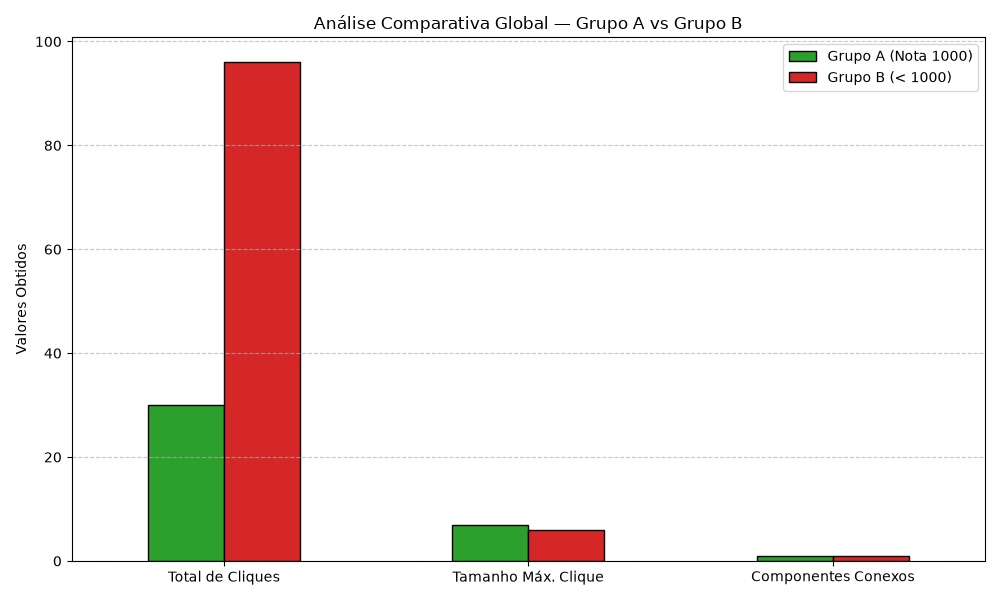
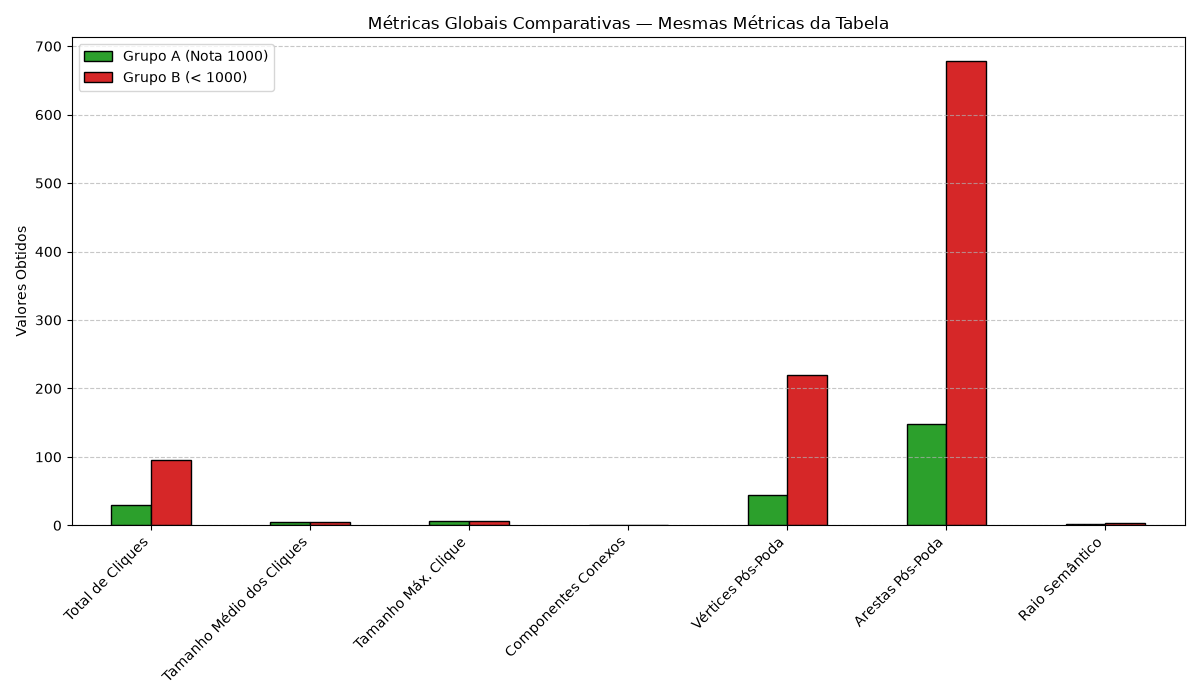
insere novos gráficos

diff --git a/cliques-enem/src/analise.py b/cliques-enem/src/analise.py
@@ -1,44 +1,88 @@
-# analise.py
+# cliques-enem/src/analise.py
+
 import os
 import matplotlib.pyplot as plt
 import pandas as pd
 
-# importo os módulos dos outros arquivos
+# importo módulos de outros arquivos
 from graph import carregar_corpus, construir_grafo_de_coocorrencia, aplicar_podas, estatisticas_grafo
 from cliques import encontrar_cliques, estatisticas_cliques
 from bfs import componentes_conexos
 
-# JSONs que foram salvos
+# JSONs oficiais q
 CORPUS_A = os.path.join("data", "processed", "corpus_nota1000.json")
 CORPUS_B = os.path.join("data", "processed", "corpus_abaixo1000.json")
 
-# pasta onde guardo os gráficos
+# pasta onde guardo os gráficos de resultados
 PASTA_FIGURAS = os.path.join("cliques-enem", "results", "figures")
 
 def gerar_graficos_comparativos_globais(stats_a, stats_b):
-    """Gera gráficos estruturais globais, sem depender de sementes."""
+    """Gera gráficos estruturais globais exigidos no escopo do R5."""
     os.makedirs(PASTA_FIGURAS, exist_ok=True)
     
-    # 1. gráfico de métricas gerais de cliques e conectividade
-    categorias = ['Total de Cliques', 'Tamanho Máx. Clique', 'Componentes Conexos']
-    valores_a = [stats_a['cliques']['total'], stats_a['cliques']['tamanho_maximo'], len(stats_a['componentes'])]
-    valores_b = [stats_b['cliques']['total'], stats_b['cliques']['tamanho_maximo'], len(stats_b['componentes'])]
-    
+    # 1. gráfco de métricas gerais, cliques...
+    categorias = [
+        'Total de Cliques',
+        'Tamanho Médio dos Cliques',
+        'Tamanho Máx. Clique',
+        'Componentes Conexos',
+        'Vértices Pós-Poda',
+        'Arestas Pós-Poda',
+        'Raio Semântico'
+    ]
+    valores_a = [
+        stats_a['cliques']['total'],
+        stats_a['cliques']['tamanho_medio'],
+        stats_a['cliques']['tamanho_maximo'],
+        len(stats_a['componentes']),
+        stats_a['grafo']['vertices'],
+        stats_a['grafo']['arestas'],
+        stats_a['raio_semantico']
+    ]
+    valores_b = [
+        stats_b['cliques']['total'],
+        stats_b['cliques']['tamanho_medio'],
+        stats_b['cliques']['tamanho_maximo'],
+        len(stats_b['componentes']),
+        stats_b['grafo']['vertices'],
+        stats_b['grafo']['arestas'],
+        stats_b['raio_semantico']
+    ]
+
     df = pd.DataFrame({'Grupo A (Nota 1000)': valores_a, 'Grupo B (< 1000)': valores_b}, index=categorias)
-    df.plot(kind='bar', figsize=(10, 6), color=['#2ca02c', '#d62728'], edgecolor='black')
-    plt.title('Análise Comparativa Global — Grupo A vs Grupo B')
+    df.plot(kind='bar', figsize=(12, 7), color=['#2ca02c', '#d62728'], edgecolor='black')
+    plt.title('Métricas Globais Comparativas — Mesmas Métricas da Tabela')
     plt.ylabel('Valores Obtidos')
-    plt.xticks(rotation=0)
+    plt.xticks(rotation=45, ha='right')
     plt.grid(axis='y', linestyle='--', alpha=0.7)
     plt.tight_layout()
     plt.savefig(os.path.join(PASTA_FIGURAS, 'analise_comparativa_metricas.png'))
     plt.close()
 
-    # 2. gráfico de distribuição de tamanhos de cliques
+    # 2. gráfico de distribuiçaõ de palavras por nível BFS
+    niveis_a = stats_a['palavras_por_nivel']
+    niveis_b = stats_b['palavras_por_nivel']
+    niveis = sorted(set(niveis_a) | set(niveis_b))
+
+    valores_niveis_a = [niveis_a.get(n, 0) for n in niveis]
+    valores_niveis_b = [niveis_b.get(n, 0) for n in niveis]
+
+    df_niveis = pd.DataFrame({'Grupo A': valores_niveis_a, 'Grupo B': valores_niveis_b}, index=niveis)
+    df_niveis.plot(kind='bar', figsize=(12, 6), color=['#2ca02c', '#d62728'], edgecolor='black')
+    plt.title('Distribuição de Palavras por Nível BFS')
+    plt.xlabel('Nível BFS')
+    plt.ylabel('Quantidade de Palavras')
+    plt.xticks(rotation=0)
+    plt.grid(axis='y', linestyle='--', alpha=0.5)
+    plt.tight_layout()
+    plt.savefig(os.path.join(PASTA_FIGURAS, 'distribuicao_palavras_por_nivel.png'))
+    plt.close()
+
+    # 3. gráfico de distribuição de tamanhos de cliques
     dist_a = stats_a['cliques']['distribuicao']
     dist_b = stats_b['cliques']['distribuicao']
     
-    faixas = list(dist_a.keys())
+    faixas = sorted(dist_a.keys())
     contagem_a = [dist_a[f] for f in faixas]
     contagem_b = [dist_b[f] for f in faixas]
     
@@ -67,47 +111,75 @@ def analisar_grupo_global(caminho_corpus, label):
     
     print("\n--> Aplicando Pipeline de Podas:")
     
-    # fatores corrigidos
     g_podado, _ = aplicar_podas(
         g_bruto, 
         min_peso=2, 
-        fator_media=0.4,   # valor de equilíbrio para não travar
-        fator_max=0.12,   # valor ideal para resgatar outros temas
+        fator_media=0.4,   # valor de equilíbrio estatístico
+        fator_max=0.12,   # valor ideal para coexistência de anos/temas
         usar_pontes=True
     )
     
-    # métrica global 1: componentes conexos via BFS
+    # componenetes conexos
     comp = componentes_conexos(g_podado)
     
-    # métrica global 2: enumeração completa de cliques maximais
+    # enumeração completa de cliques
     cliques_encontrados = encontrar_cliques(g_podado, min_peso=2, tamanho_minimo=4)
     stats_c = estatisticas_cliques(cliques_encontrados)
+    
+    # raio semântico e palavra por nível
+    vertices = g_podado.listar_vertices()
+    if vertices:
+        # determinação automática da semente usando o maior grau de conectividade
+        semente = max(vertices, key=lambda v: g_podado.grau(v))
+        
+        from bfs import bfs_niveis
+        niveis_dict = bfs_niveis(g_podado, semente)
+        
+        por_nivel = {}
+        for pal, nv in niveis_dict.items():
+            por_nivel.setdefault(nv, []).append(pal)
+            
+        raio_semantico = max(por_nivel.keys()) if por_nivel else 0
+        distribuicao_niveis = {nv: len(pals) for nv, pals in por_nivel.items()}
+    else:
+        semente = "N/A"
+        raio_semantico = 0
+        distribuicao_niveis = {}
     
     return {
         "grafo": estatisticas_grafo(g_podado),
         "cliques": stats_c,
         "componentes": comp,
-        "lista_cliques": cliques_encontrados
+        "lista_cliques": cliques_encontrados,
+        "semente_bfs": semente,
+        "raio_semantico": raio_semantico,
+        "palavras_por_nivel": distribuicao_niveis
     }
+
 def main():
     dados_a = analisar_grupo_global(CORPUS_A, "Grupo A (Nota 1000)")
     dados_b = analisar_grupo_global(CORPUS_B, "Grupo B (Abaixo de 1000)")
     
     if dados_a and dados_b:
-        # exibição da Tabela Comparativa de Resultados Globais no terminal
-        linha = "-" * 75
-        print(f"\n{linha}\nTABELA COMPARATIVA DE RESULTADOS GLOBAIS\n{linha}")
-        print(f"{'Métrica Medida':<35} | {'Grupo A':<15} | {'Grupo B':<15}")
+        # exibição da tabela completa
+        linha = "-" * 85
+        print(f"\n{linha}\nTABELA COMPARATIVA DE RESULTADOS GLOBAIS (R5)\n{linha}")
+        print(f"{'Métrica Medida':<40} | {'Grupo A':<18} | {'Grupo B':<18}")
         print(linha)
-        print(f"{'Nº Total de Cliques (>= 4)':<35} | {dados_a['cliques']['total']:<15} | {dados_b['cliques']['total']:<15}")
-        print(f"{'Tamanho Médio dos Cliques':<35} | {dados_a['cliques']['tamanho_medio']:<15} | {dados_b['cliques']['tamanho_medio']:<15}")
-        print(f"{'Tamanho do Maior Clique':<35} | {dados_a['cliques']['tamanho_maximo']:<15} | {dados_b['cliques']['tamanho_maximo']:<15}")
-        print(f"{'Nº de Componentes Conexos':<35} | {len(dados_a['componentes']):<15} | {len(dados_b['componentes']):<15}")
-        print(f"{'Vértices Restantes (Pós-Poda)':<35} | {dados_a['grafo']['vertices']:<15} | {dados_b['grafo']['vertices']:<15}")
-        print(f"{'Arestas Restantes (Pós-Poda)':<35} | {dados_a['grafo']['arestas']:<15} | {dados_b['grafo']['arestas']:<15}")
+        print(f"{'Nº Total de Cliques (>= 4)':<40} | {dados_a['cliques']['total']:<18} | {dados_b['cliques']['total']:<18}")
+        print(f"{'Tamanho Médio dos Cliques':<40} | {dados_a['cliques']['tamanho_medio']:<18} | {dados_b['cliques']['tamanho_medio']:<18}")
+        print(f"{'Tamanho do Maior Clique':<40} | {dados_a['cliques']['tamanho_maximo']:<18} | {dados_b['cliques']['tamanho_maximo']:<18}")
+        print(f"{'Nº de Componentes Conexos':<40} | {len(dados_a['componentes']):<18} | {len(dados_b['componentes']):<18}")
+        print(f"{'Vértices Restantes (Pós-Poda)':<40} | {dados_a['grafo']['vertices']:<18} | {dados_b['grafo']['vertices']:<18}")
+        print(f"{'Arestas Restantes (Pós-Poda)':<40} | {dados_a['grafo']['arestas']:<18} | {dados_b['grafo']['arestas']:<18}")
+        semente_a = f'"{dados_a["semente_bfs"]}"'
+        semente_b = f'"{dados_b["semente_bfs"]}"'
+        print(f"{'Palavra Semente Escolhida (BFS)':<40} | {semente_a:<18} | {semente_b:<18}")
+        print(f"{'Raio Semântico (Nível Máx. BFS)':<40} | {dados_a['raio_semantico']:<18} | {dados_b['raio_semantico']:<18}")
+        print(f"{'Distribuição de Palavras por Nível':<40} | {str(dados_a['palavras_por_nivel']):<18} | {str(dados_b['palavras_por_nivel']):<18}")
         print(linha)
         
-        # mapeamento qualitativo de relevância dos subgrafos completos
+        # mapeamento quantitativo
         print("\n--> Mapeamento e Relevância dos Principais Cliques Maximais:")
         
         print(f"\n  [Grupo A - Nota 1000] Núcleos Temáticos Consolidados:")
@@ -126,9 +198,9 @@ def main():
         else:
             print("    Nenhum clique detectado com os parâmetros atuais.")
         
-        # geração automática dos novos gráficos globais
+        # gero os novos gráficos
         gerar_graficos_comparativos_globais(dados_a, dados_b)
-        print(f"\n[SUCESSO] Medições estruturais concluídas! Imagens salvas em '{PASTA_FIGURAS}'")
+        print(f"\n[SUCESSO]")
 
 if __name__ == "__main__":
     main()
